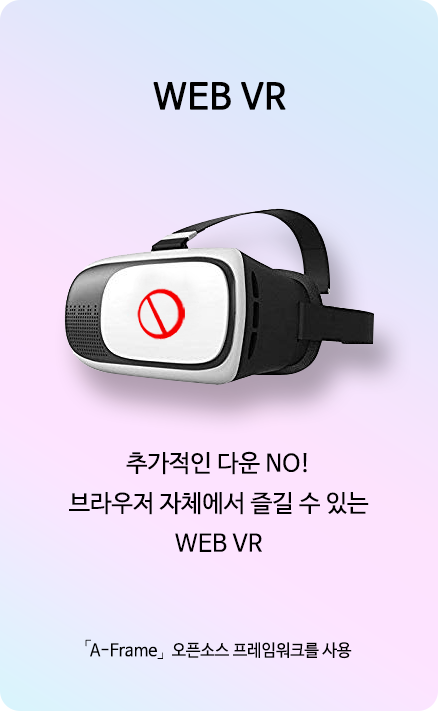
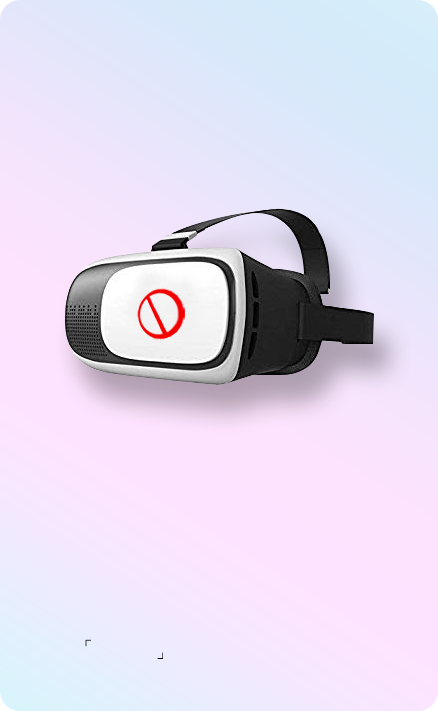
bsh service

diff --git a/src/Service/explain/card.js b/src/Service/explain/card.js
@@ -10,12 +10,43 @@ class Card extends React.Component{
 
     render(){
         return (
-        <div className="col-md-4">
-            <div className="exp-card p-5" id={this.props.num}>
-                {/* <h1>{this.props.title}</h1>
-                <p>{this.props.content}</p> */}
-            </div>
-        </div>
+		<div className="row">	
+			<div className="col-md-4">
+				<div className="exp-card p-5" id="img1">
+					<div className="text-box">
+						<h1>상호작용&amp;퍼포먼스</h1>
+						<p>
+							작품 배치<br></br>
+							조명 · 액자 변경<br></br>
+							조명 on/off 조절<br></br>
+						</p>
+						<h2>나만의 전시공간을 만들어보자!</h2>
+					</div>
+				</div>
+			</div>
+			<div className="col-md-4">
+				<div className="exp-card p-5" id="img2">
+					<h1>WEB VR</h1>
+					<h2>
+						추가적인 다운 NO!<br></br>
+						브라우저 자체에서 즐길 수 있는<br></br>
+						WEB VR<br></br>
+					</h2>
+					<p>⌜A-Frame⌟ 오픈소스 프레임워크 사용</p>
+				</div>
+			</div>
+			<div className="col-md-4">
+				<div className="exp-card p-5" id="img3">
+					<h1>현실감있는 질감표현</h1>
+					<h2>
+						붓 터치 자국표혐<br></br>
+						광원에 다른 질감표현<br></br>
+						벽면 질감 포현<br></br>
+					</h2>
+					<p>원화의 질감을 입체적으로 느껴보세요!</p>
+				</div>
+			</div>
+		</div>
         );
     }
 }

diff --git a/src/Service/explain/explain.js b/src/Service/explain/explain.js
@@ -4,28 +4,10 @@ import Card from './card';
 
 class Explain extends React.Component{
     render(){
-
-        let cardtext = [
-            {title: "WEB VR", content: "WEB VR에 대한 설명 100자 이내"},
-            {title: "다양한 물리적 퍼포먼스", content: "상호작용과 퍼포먼스에 대한 설명 100자 이내"},
-            {title: "뛰어난 질감 표현", content: "질감표현에 대한 설명 100자 이내"},
-        ];
-
         return (
         <div className="section bg_exp">
             <div className="container">
-                <div className="row">
-                    {cardtext.map((value, index) => {
-                    return (
-                        <Card
-                            key={index}
-                            title={value.title}
-							content={value.content}
-							num={'img'+(index+1)}
-                        />
-                        );
-                    })}
-                </div>
+				<Card />
             </div> 
         </div>
         )

diff --git a/src/Service/explain/card.scss b/src/Service/explain/card.scss
@@ -4,13 +4,54 @@
 	height: 500px;
 	margin: 20px 20px;
 	background-size: cover;
+	padding: 48px 30px!important;
+	h1 {
+		font-size: 1.6rem;
+	}
 }
 #img1 {
 	background-image: url('../image/explain/1.png');
+	display: flex;
+	align-items: flex-end;
+	.text-box {
+		width: 100%;
+		height: 135px;
+		text-shadow: 0 0.27375rem 0.1875rem rgba(0, 0, 0, 0.4);
+	}
+	h2 {
+		font-size: 1.1rem;
+		color: white;
+	}
+	p {
+		line-height: 165%;
+	}
 }
 #img2 {
 	background-image: url('../image/explain/2.png');
+	h1 {
+		margin-bottom: 230px;
+	}
+	h2{
+		line-height: 150%;
+		margin-bottom: 65px;
+		font-size: 1.1rem;
+	}
+	p {
+		font-size: 0.8rem;
+	}
 }
 #img3 {
 	background-image: url('../image/explain/3.png');
+	color: white;
+	h1 {
+		margin-bottom: 50px;
+	}
+	h2 {
+		font-size: 1.3rem;
+		line-height: 150%;
+		margin-bottom: 225px;
+	}
+	p {
+		font-size: 1rem;
+	}
 }

diff --git a/src/Service/title/title.scss b/src/Service/title/title.scss
@@ -3,7 +3,6 @@
 	background-image: url('../image/title/bg.png');
 	background-repeat: no-repeat;
 	background-size: cover;
-	
 }
 
 .logo2 {
@@ -12,6 +11,8 @@
     background-repeat: no-repeat;
 	width: 100px;
 	height: 100px;
+	border-radius: 20px;
+	box-shadow: 0rem 0.2625rem 4.1875rem 0 rgba(0, 0, 0, 0.8);
 }
 
 .title_box, .comment_box {

diff --git a/src/Service/title/title_text.js b/src/Service/title/title_text.js
@@ -11,7 +11,7 @@ class Title_text extends React.Component{
         <div className="title_box">
 			<h2>예술작품 플랫폼</h2>
             <h1>Masterpiece</h1>
-			<h3>온라인 문화시장·개척 예술계 트랜드 구축</h3>
+			<h3>온라인 문화시장 · 개척 예술계 트랜드 구축</h3>
         </div>
         )
     }

diff --git a/src/Service/about/about.scss b/src/Service/about/about.scss
@@ -4,7 +4,7 @@
 	.abt_title {
 		background-color: #80191f;
 		color: white;
-		padding: 100px;
+		padding: 100px 0px;
 		box-shadow: 0 0.9375rem 1.3875rem 0 rgba(0,0,0,0.2);
 	}
 	h2, p {
